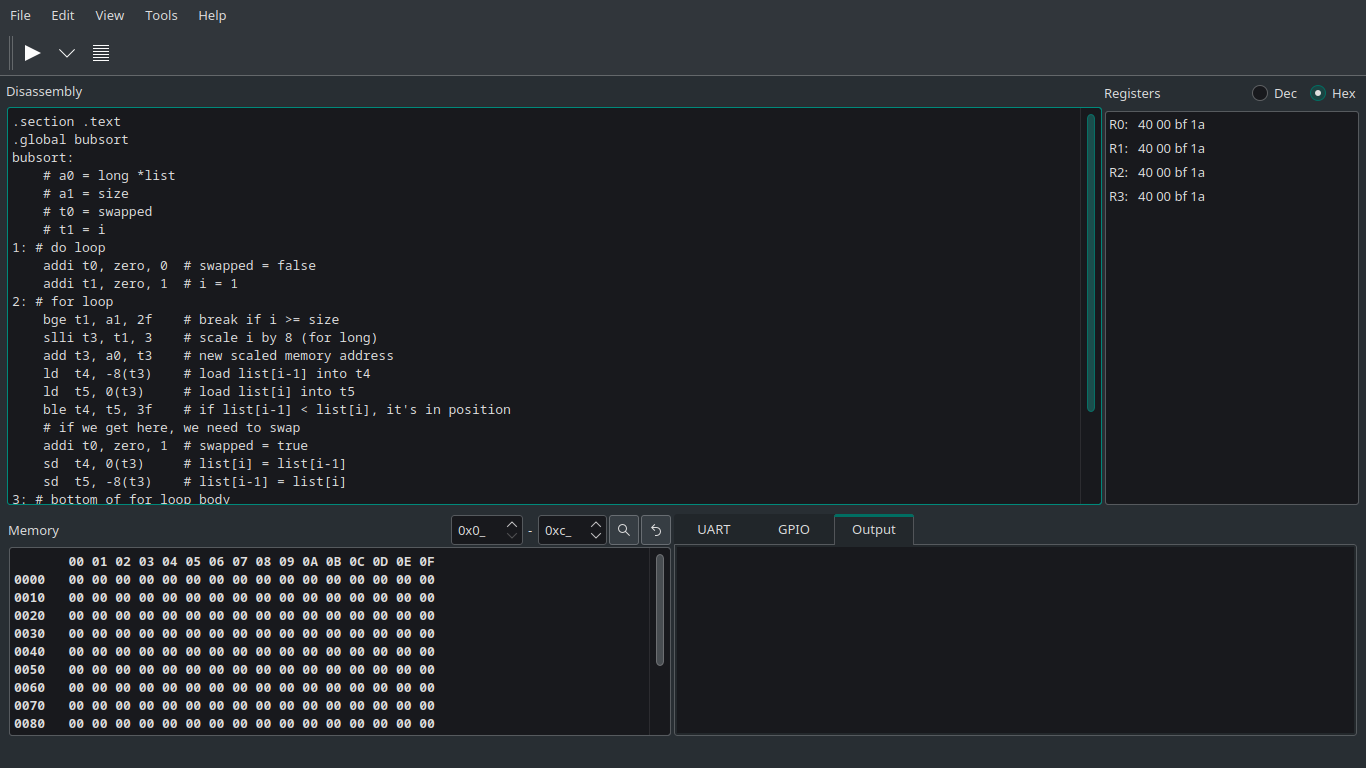
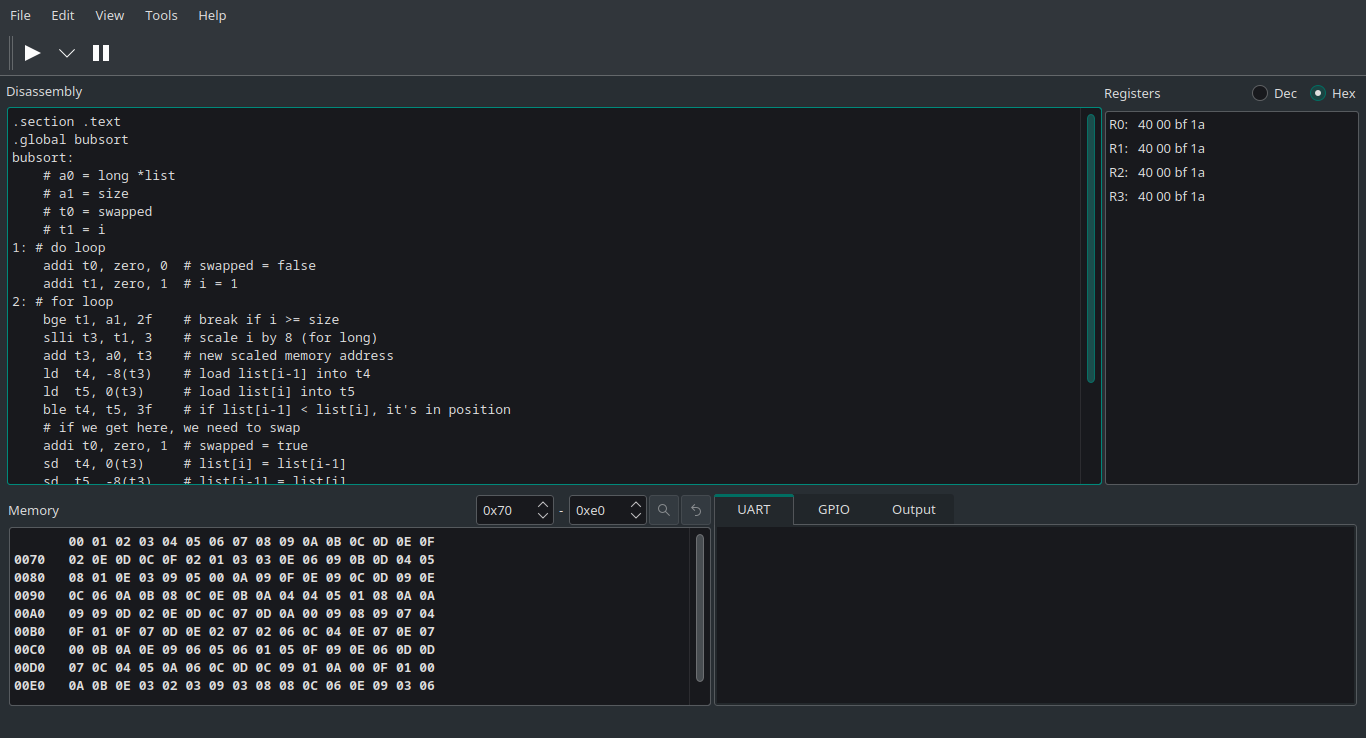
Improved UI behaviour.
Memory selection spinBoxes should now allow only valid memory range.
Memory dump is now generated based on range.
Project is now built using cmake instead of qmake.
Added an About window.

diff --git a/src/mainwindow.cpp b/src/mainwindow.cpp
@@ -1,9 +1,13 @@
 #include "mainwindow.h"
 #include "ui_mainwindow.h"
+#include "aboutwindow.h"
 
 #include <QAction>
 #include <QMessageBox>
 #include <QStringListModel>
+
+#include <sstream>
+#include <iomanip>
 
 MainWindow::MainWindow(QWidget *parent)
     : QMainWindow(parent)
@@ -35,23 +39,14 @@ MainWindow::MainWindow(QWidget *parent)
     connect(ui->action_Serial_monitor, SIGNAL(toggled(bool)), this, SLOT(setUARTTabVisible()));
     connect(ui->action_GPIO, SIGNAL(toggled(bool)), this, SLOT(setGPIOTabVisible()));
     connect(ui->action_Output, SIGNAL(toggled(bool)), this, SLOT(setOutputTabVisible()));
-    connect(ui->toolButton, SIGNAL(clicked(bool)), this, SLOT(showMessageBox()));
     connect(ui->action_About_RISCVEmulator, SIGNAL(triggered(bool)), this, SLOT(showAbout()));
+
+    MainWindow::on_btnRestoreMemory_clicked();
 }
 
 MainWindow::~MainWindow()
 {
     delete ui;
-}
-
-void MainWindow::showMessageBox() {
-    QMessageBox msgBox;
-    msgBox.setText("Select address range.");
-    msgBox.exec();
-}
-
-void MainWindow::showAbout() {
-
 }
 
 void MainWindow::setUARTTabVisible()
@@ -82,3 +77,79 @@ void MainWindow::updatePeripheralTabWidgetVisible() {
 
     ui->tabWidget->setVisible(false);
 }
+
+void MainWindow::updateMemoryButtons() {
+    bool enabled = ui->spinBoxMemoryFrom->value() != this->memoryFrom ||
+                   ui->spinBoxMemoryTo->value() != this->memoryTo;
+
+    ui->btnSelectMemory->setEnabled(enabled);
+    ui->btnRestoreMemory->setEnabled(enabled);
+}
+
+void MainWindow::updateTextEditMemory() {
+    std::string s = "       00 01 02 03 04 05 06 07 08 09 0A 0B 0C 0D 0E 0F\n";
+
+    for (int i = this->memoryFrom; i <= this->memoryTo; ++i) {
+        std::stringstream ss;
+        ss << std::uppercase << std::hex << std::setw(3) << std::setfill('0') << i;
+        s += ss.str() + "0  ";
+        for (int j = 0; j < 16; ++j) {
+            std::stringstream ssByte;
+            ssByte << std::uppercase << std::hex << std::setw(2) << std::setfill('0') << (rand() % 16);
+            s += " " + ssByte.str();
+        }
+        s += "\n";
+    }
+
+    QString str = QString::fromStdString(s);
+    ui->textEditMemory->setPlainText(str);
+}
+
+void MainWindow::updateMemorySpinBoxes() {
+    ui->spinBoxMemoryFrom->setValue(this->memoryFrom);
+    ui->spinBoxMemoryTo->setValue(this->memoryTo);
+}
+
+
+void MainWindow::on_action_Open_triggered()
+{
+    QString fileName = QFileDialog::getOpenFileName(this, "Select binary file", ".");
+    ui->statusbar->showMessage(fileName);
+}
+
+
+void MainWindow::on_action_About_RISCVEmulator_triggered()
+{
+    AboutWindow aboutWindow;
+    aboutWindow.setModal(true);
+    aboutWindow.exec();
+}
+
+void MainWindow::on_spinBoxMemoryFrom_valueChanged(int arg1)
+{
+    ui->spinBoxMemoryTo->setMinimum(ui->spinBoxMemoryFrom->value());
+    MainWindow::updateMemoryButtons();
+}
+
+void MainWindow::on_spinBoxMemoryTo_valueChanged(int arg1)
+{
+    ui->spinBoxMemoryFrom->setMaximum(ui->spinBoxMemoryTo->value());
+    MainWindow::updateMemoryButtons();
+}
+
+void MainWindow::on_btnRestoreMemory_clicked()
+{
+    MainWindow::updateMemorySpinBoxes();
+    MainWindow::updateTextEditMemory();
+}
+
+void MainWindow::on_btnSelectMemory_clicked()
+{
+    this->memoryFrom = ui->spinBoxMemoryFrom->value();
+    this->memoryTo = ui->spinBoxMemoryTo->value();
+
+    MainWindow::updateMemorySpinBoxes();
+    MainWindow::updateMemoryButtons();
+    MainWindow::updateTextEditMemory();
+}
+

diff --git a/src/mainwindow.h b/src/mainwindow.h
@@ -2,6 +2,7 @@
 #define MAINWINDOW_H
 
 #include <QMainWindow>
+#include <QFileDialog>
 
 QT_BEGIN_NAMESPACE
 namespace Ui { class MainWindow; }
@@ -16,14 +17,28 @@ public:
     ~MainWindow();
 
 private slots:
-    void showMessageBox();
     void setUARTTabVisible();
     void setGPIOTabVisible();
     void setOutputTabVisible();
-    void showAbout();
+
+    void on_action_Open_triggered();
+    void on_action_About_RISCVEmulator_triggered();
+
+    void on_spinBoxMemoryFrom_valueChanged(int arg1);
+
+    void on_spinBoxMemoryTo_valueChanged(int arg1);
+
+    void on_btnRestoreMemory_clicked();
+
+    void on_btnSelectMemory_clicked();
 
 private:
     Ui::MainWindow *ui;
+    int memoryFrom = 0, memoryTo = 0xfff;
+
     void updatePeripheralTabWidgetVisible();
+    void updateMemorySpinBoxes();
+    void updateMemoryButtons();
+    void updateTextEditMemory();
 };
 #endif // MAINWINDOW_H

diff --git a/src/aboutwindow.h b/src/aboutwindow.h
@@ -1,0 +1,22 @@
+#ifndef ABOUTWINDOW_H
+#define ABOUTWINDOW_H
+
+#include <QDialog>
+
+namespace Ui {
+class AboutWindow;
+}
+
+class AboutWindow : public QDialog
+{
+    Q_OBJECT
+
+public:
+    explicit AboutWindow(QWidget *parent = nullptr);
+    ~AboutWindow();
+
+private:
+    Ui::AboutWindow *ui;
+};
+
+#endif // ABOUTWINDOW_H

diff --git a/src/aboutwindow.cpp b/src/aboutwindow.cpp
@@ -1,0 +1,14 @@
+#include "aboutwindow.h"
+#include "ui_aboutwindow.h"
+
+AboutWindow::AboutWindow(QWidget *parent) :
+    QDialog(parent),
+    ui(new Ui::AboutWindow)
+{
+    ui->setupUi(this);
+}
+
+AboutWindow::~AboutWindow()
+{
+    delete ui;
+}
